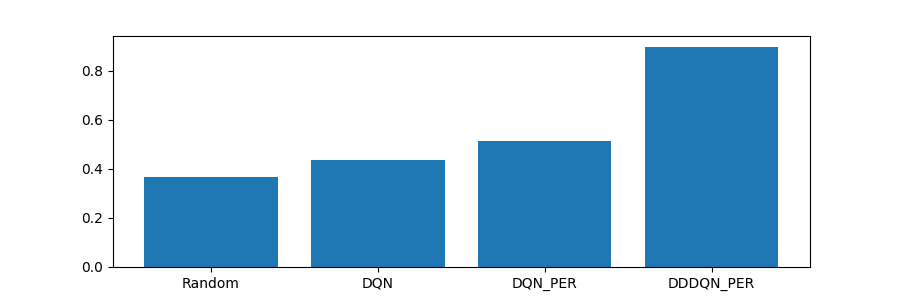
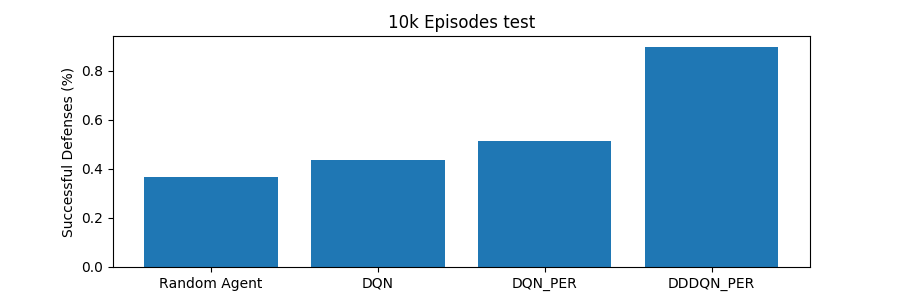
Fixed names of graphs

diff --git a/hfo_tests/results/graphics_gen.py b/hfo_tests/results/graphics_gen.py
@@ -64,29 +64,37 @@ for t in test_trials_files:
 random = 1 - int(random[-4].split(': ')[1])/int(random[-5].split(': ')[1])
 
 list10k = [x for x in train_trials_files[0].items()]
-list10k.insert(0, ('Random',random))
+list10k.insert(0, ('Random Agent',random))
 list10k = sorted(list10k, key=lambda x: x[1])
 plt.figure(1, figsize=[9, 3])
 plt.bar([x[0] for x in list10k], [x[1] for x in list10k])
+plt.title('10k Episodes training')
+plt.ylabel('Successful Defenses (%)')
 plt.savefig('Train_Success_10k')
 #--------------------------
 list50k = [x for x in train_trials_files[1].items()]
 list50k = sorted(list50k, key=lambda x: x[1])
 plt.figure(2, figsize=[9, 3])
 plt.bar([x[0] for x in list50k], [x[1] for x in list50k])
+plt.title('50k Episodes training')
+plt.ylabel('Successful Defenses (%)')
 plt.savefig('Train_Success_50k')
 #--------------------------
 list10k = [x for x in test_trials_files[0].items()]
-list10k.insert(0, ('Random',random))
+list10k.insert(0, ('Random Agent',random))
 list10k = sorted(list10k, key=lambda x: x[1])
 plt.figure(3, figsize=[9, 3])
 plt.bar([x[0] for x in list10k], [x[1] for x in list10k])
+plt.title('10k Episodes test')
+plt.ylabel('Successful Defenses (%)')
 plt.savefig('Test_Success_10k')
 #--------------------------
 list50k = [x for x in test_trials_files[1].items()]
 list50k = sorted(list50k, key=lambda x: x[1])
 plt.figure(4, figsize=[9, 3])
 plt.bar([x[0] for x in list50k], [x[1] for x in list50k])
+plt.title('50k Episodes test')
+plt.ylabel('Successful Defenses (%)')
 plt.savefig('Test_Success_50k')
 
 
